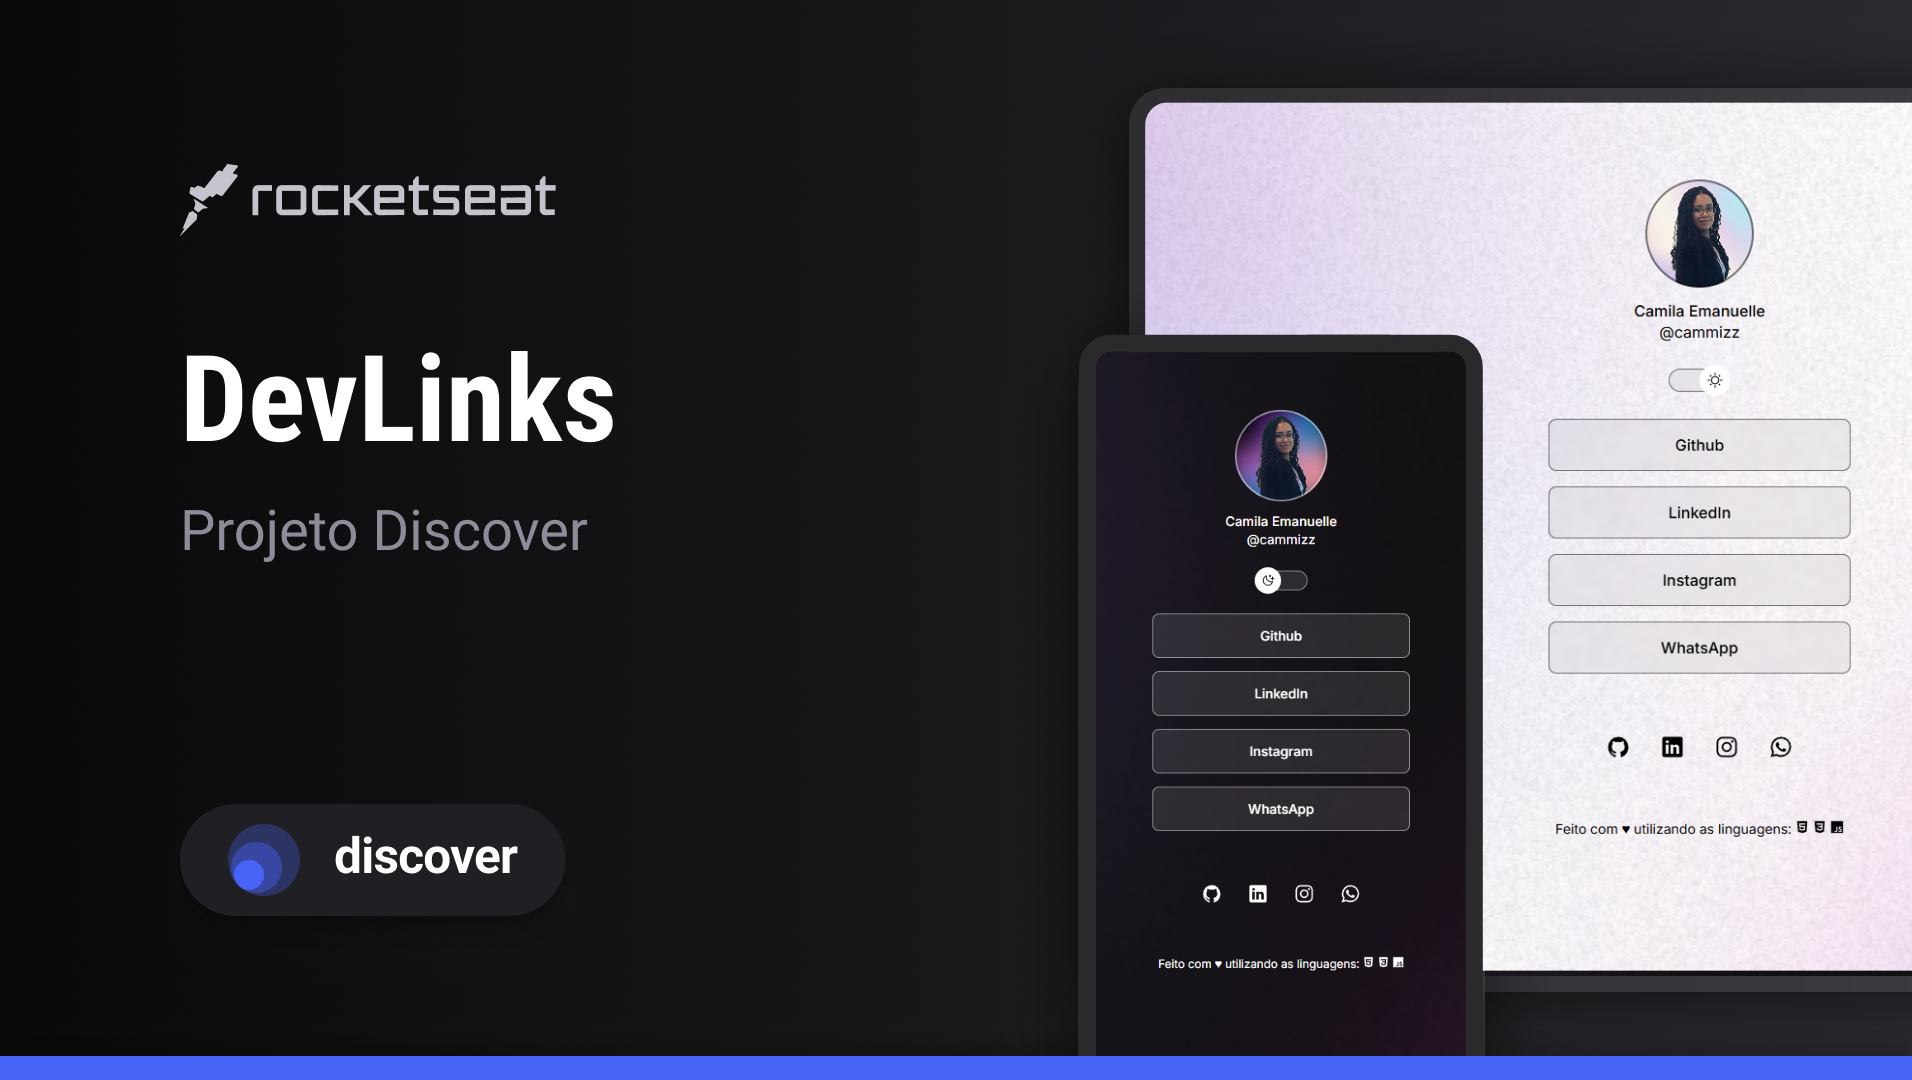
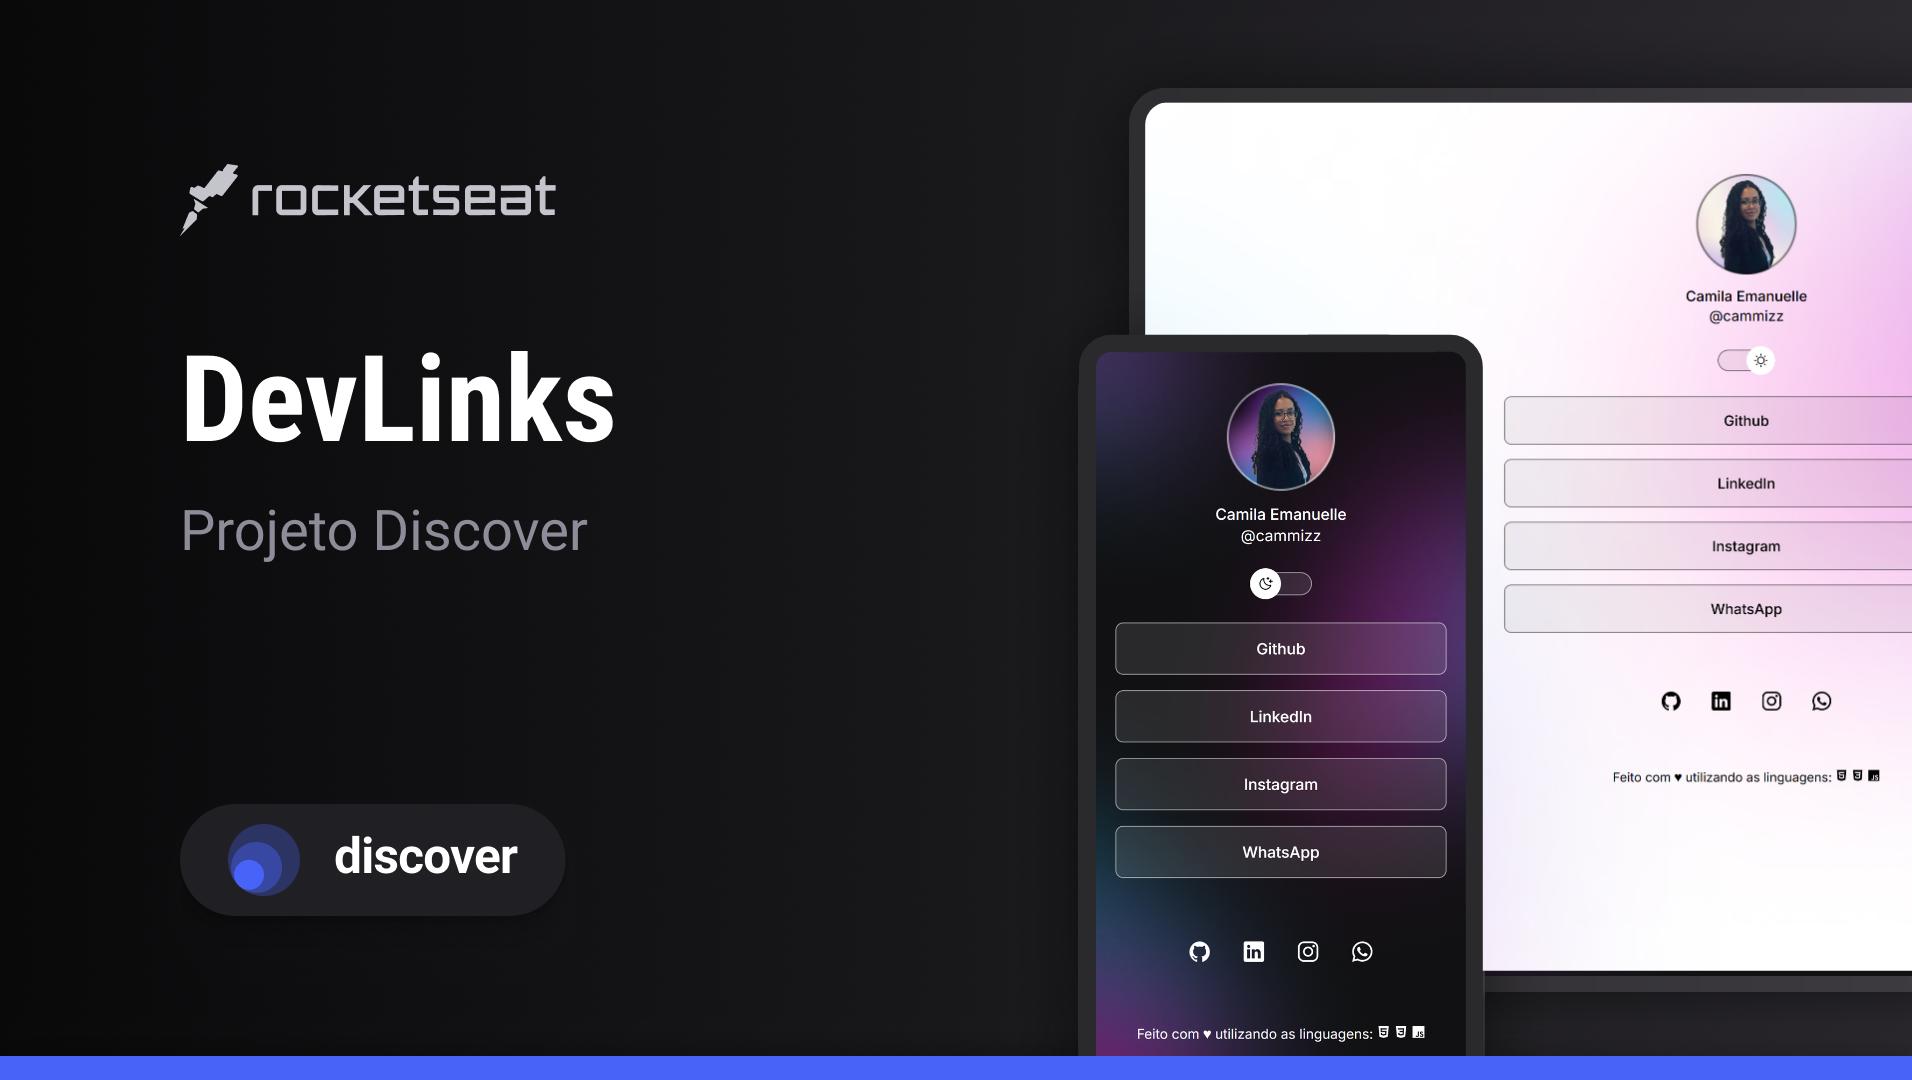
changed background based on media queries

Changed region(s): [[0.5554, 0.0917, 0.8023, 0.9778], [0.8023, 0.0917, 1.0, 0.7333], [0.8023, 0.7639, 1.0, 0.9167]]

diff --git a/style.css b/style.css
@@ -33,6 +33,7 @@ body {
   */
 
   background: var(--bg-url) no-repeat top center/cover;
+  height: 100vh;
 }
 
 body * {
@@ -153,4 +154,15 @@ footer {
   padding: 24px 0;
   text-align: center;
   font-size: 14px;
+}
+
+/* media queries */
+@media (min-width: 700px) {
+  :root {
+    --bg-url: url(./assets/bg-desktop.jpg);
+  }
+
+  .light {
+    --bg-url: url(./assets/bg-desktop-light.jpg);
+  }
 }
